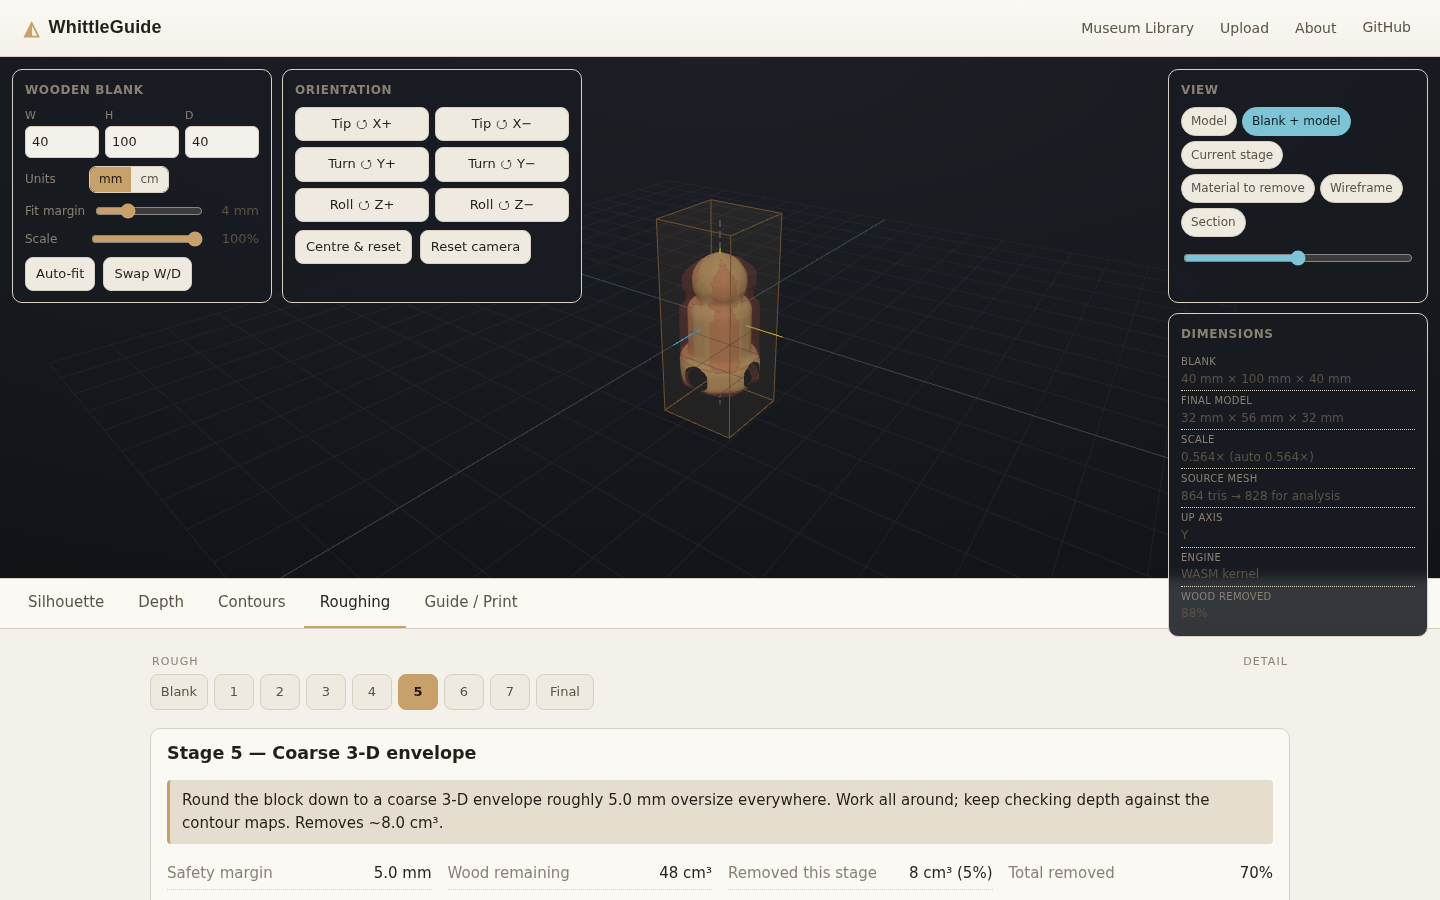
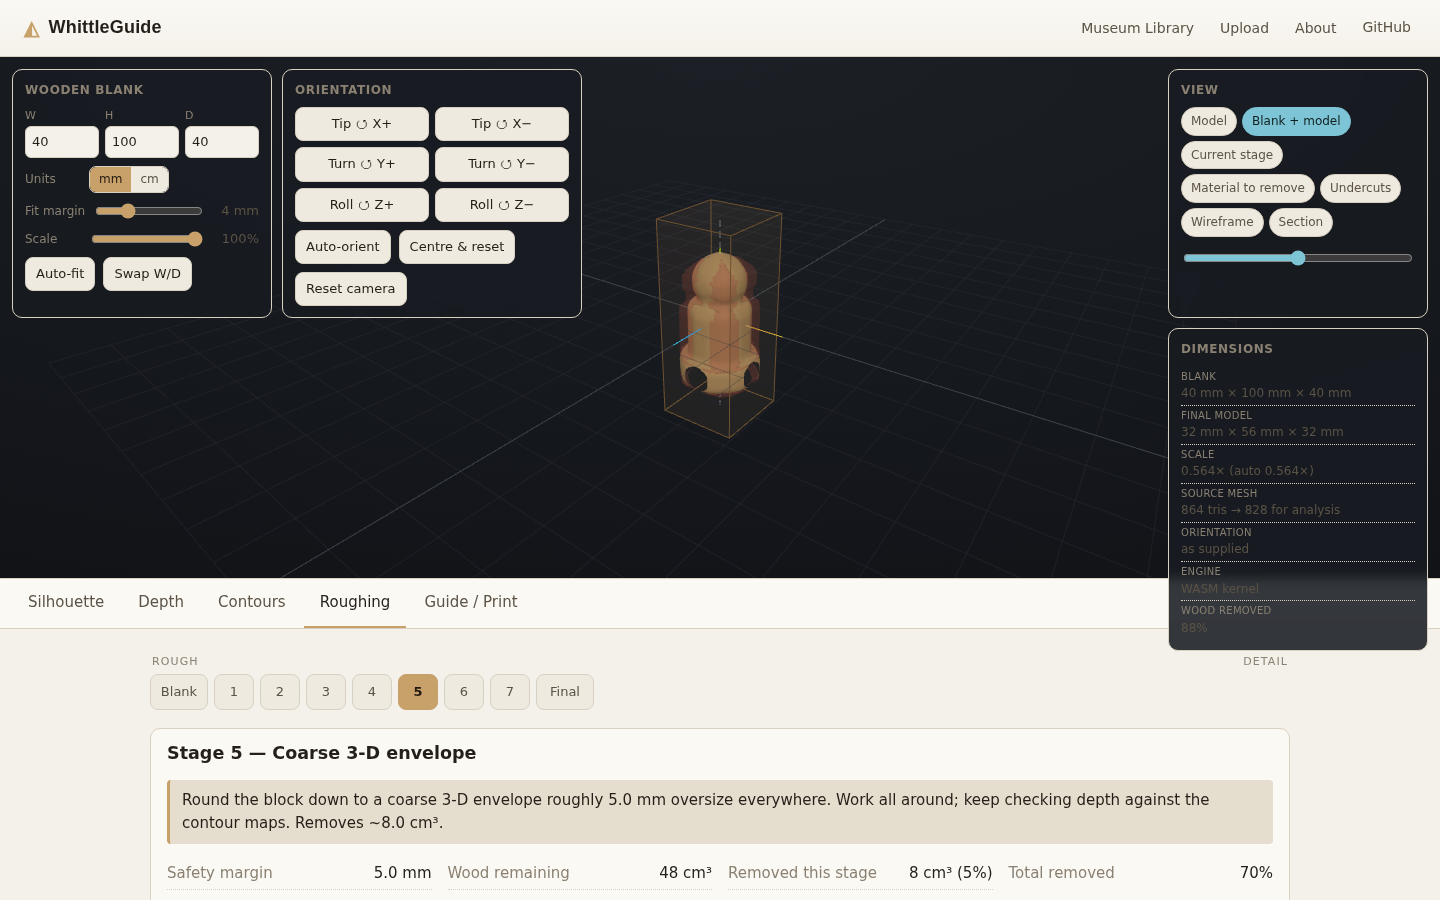
README + docs: any-model focus, undercuts/orient/QEM/PLY, pipeline diagram, fresh screenshots

diff --git a/README.md b/README.md
@@ -41,13 +41,17 @@ Smithsonian; **uploaded files never leave your device**.
 | Upload `.glb` / `.gltf` (incl. Draco) / `.obj` / `.stl` | ✅ |
 | Interactive 3D workspace: orbit/pan/zoom, translucent blank, labelled axes | ✅ |
 | Editable blank dimensions (mm / cm), auto-fit with margin, orientation, scale | ✅ |
-| Visualisation modes: model, blank+model, current stage, material-to-remove, wireframe, section | ✅ |
+| Visualisation modes: model, blank+model, current stage, material-to-remove, **undercuts**, wireframe, section | ✅ |
 | 6 orthographic silhouette templates with real dimensions, centre lines, tick marks | ✅ |
 | Depth maps (front/back/left/right) with hover read-out and legend | ✅ |
 | Contour maps at 2 / 5 / 10 mm | ✅ |
 | 9 progressive carving stages with geometry-derived instructions | ✅ |
 | Stage timeline + material-removed visualisation | ✅ |
 | Carvability analysis + unsuitable-model warnings | ✅ |
+| **Undercut detection** — highlights surface a straight knife can't reach | ✅ |
+| **PCA auto-orientation** (+ "Auto-orient" button) so any pose comes in usable | ✅ |
+| **Quadric (QEM) mesh decimation** for arbitrary dense uploads | ✅ |
+| Drag-and-drop upload anywhere on the page | ✅ |
 | Printable guide (A4 CSS) + per-template SVG export + calibration square | ✅ |
 | Web Worker for the heavy geometry so the UI stays responsive | ✅ |
 | **Rust → WASM geometry kernel** (voxelisation + distance transform), ~10× faster, with JS fallback | ✅ |
@@ -72,11 +76,14 @@ src/
       smithsonian.ts       Smithsonian 3D API + curated catalogue
       europeana.ts         optional, config-gated
     catalogue.generated.json   committed CC0 catalogue (see scripts/build-catalogue.mjs)
-  viewer/         three.js scene, model loaders, voxel→mesh, demo models
+  viewer/         three.js scene, model loaders, Surface Nets isosurface, demo models
   geometry/       PURE, three.js-free, unit-tested pipeline
     mesh.ts normalize.ts blank.ts voxelize.ts distance.ts
     projection.ts contours.ts marchingSquares.ts
     carvingStages.ts carvability.ts roughCuts.ts analysis.ts
+    simplify.ts          quadric (QEM) edge-collapse decimation
+    orient.ts            PCA auto-orientation
+    undercuts.ts         6-axis unreachable-surface detection
     viewGeometry.ts      one source of truth: view → face-frame mapping
     silhouette.ts        high-res vector silhouette tracing (triangle raster)
     depthField.ts        high-res orthographic depth maps (triangle z-buffer)
@@ -100,12 +107,20 @@ The worker is a thin wrapper around `geometry/analysis.ts::analyse()`.
 
 ## 4. Supported model types
 
-`.glb`, `.gltf` (including Draco-compressed), `.obj`, `.stl`. Textures are not
-required for analysis. Broken or empty files produce a readable error.
+`.glb`, `.gltf` (including Draco-compressed), `.obj`, `.stl`, `.ply`. Load them
+from the Upload button or by **dropping a file anywhere on the page**. Textures
+aren't required for analysis. Broken files, empty files and PLY point clouds
+produce a readable error.
 
-For large museum scans the mesh is cleaned (degenerate triangles dropped) and
-**simplified by vertex clustering** to ≤ 40 000 triangles for interactive
-analysis; the original is still shown in the viewer.
+**Museum objects are only one source — any model works the same way.** On load,
+every mesh is cleaned (degenerate triangles dropped), **decimated with quadric
+edge-collapse** to ≤ 40 000 triangles for analysis (huge scans are clustered
+down first to keep it interactive), and **PCA-auto-oriented** so an arbitrary
+pose (Z-up export, tilted scan, sideways prop) comes in standing sensibly. All of
+this runs in the geometry worker, off the main thread; the original mesh is still
+shown in the viewer. The "Auto-orient" button re-runs orientation more
+aggressively (e.g. to stand up a portrait bust); the six rotate buttons are the
+final manual fallback.
 
 ## 5. Museum integration
 
@@ -147,6 +162,10 @@ The app is fully functional without Europeana.
 ## 6. Geometry pipeline
 
 ```
+raw mesh
+  └─ clean · quadric-decimate · PCA-orient · scale     (worker, once per model)
+        │
+        ▼
 placed mesh (blank space)
   ├─ triangle raster ──→ silhouettes   ~0.1 mm/px + Douglas–Peucker  (6 faces)
   │                  └─→ depth maps    ~300 px/face z-buffer, quantised 1 mm (4 faces)
@@ -155,6 +174,7 @@ placed mesh (blank space)
          ├─ carving stages       nested envelopes, invariant-checked (see §7)
          │      └─ 3-D preview    Surface Nets isosurface (smoothed)
          ├─ carvability report    undercuts, thin features, symmetry, recesses, …
+         ├─ undercut mask         surface unreachable from any of the 6 axes
          └─ experimental rough cuts   safe whole-slab straight cuts
 ```
 
@@ -207,10 +227,15 @@ Per-stage instructions are generated from *which* constraint was applied and the
   isosurface (Surface Nets + field blur + Laplacian) of that grid, so it reads as
   carved wood rather than voxels; the underlying stage data is still grid
   resolution.
-- Mesh simplification is **vertex clustering**, not quadric decimation — good
-  enough for silhouettes/depth/voxels, not for display-quality reduction.
-- "Up axis" detection is a heuristic; use the orientation buttons if it guesses
-  wrong.
+- Auto-orientation is PCA + heuristics: it stands up figures/busts/bottles and
+  squares up tilted or Z-up models, but it can't know that a reclining animal is
+  *meant* to be horizontal. Use "Auto-orient" for a stronger stand-up guess and
+  the six rotate buttons to override.
+- Quadric decimation on a 300 k-triangle scan takes a few seconds (it runs in the
+  worker with a progress state). It rejects collapses that flip a triangle but is
+  not guaranteed to preserve manifoldness on already-broken scans.
+- Undercut detection is the strict "straight tool from 6 axes" model — it does
+  not account for bent knives or reaching into an open pocket at an angle.
 - Rough-cut suggestions are conservative (whole-slab, axis-aligned only) and
   explicitly **experimental**.
 - Carvability scoring is a heuristic, not a simulation.
@@ -260,10 +285,16 @@ results:
 - safety-margin monotonicity;
 - disconnected-part detection;
 - vector silhouette extent / smoothness / resolution-independence;
+- quadric decimation: hits the target count, keeps a sphere round, preserves
+  volume, produces no degenerate triangles;
+- PCA auto-orientation: stands up a lying figure, leaves an upright one alone,
+  doesn't tip a flat/wide object onto its edge;
+- undercut detection: none on convex/box shapes, a real fraction inside an
+  enclosed cavity;
 - **WASM-vs-TS parity** (`tests/wasm-parity`): voxelisation bit-identical,
   distance transform within 0.05 mm, dilation masks within 0.1%.
 
-CI (`.github/workflows/deploy.yml`) runs `npm test` before every deploy.
+53 tests. CI (`.github/workflows/deploy.yml`) runs `npm test` before every deploy.
 
 ## 11. GitHub Pages deployment
 
@@ -284,9 +315,9 @@ planning and the carvability scoring — all pure functions behind
 `geometry/analysis.ts`.
 
 ### Physical carving intelligence
-Grain direction, fragile-feature planning, clamping surfaces, knife/gouge/saw
-accessibility, undercut planning, minimum safe thickness, grain-aware order of
-operations.
+Undercut *detection* exists; still to do: grain direction, fragile-feature
+planning, clamping surfaces, knife/gouge/saw *accessibility planning* (which tool
+for which region), minimum safe thickness, grain-aware order of operations.
 
 ### AR mode
 The carving-stage representation (nested voxel envelopes + final mesh) is designed
